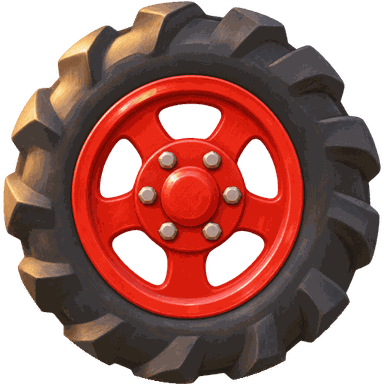
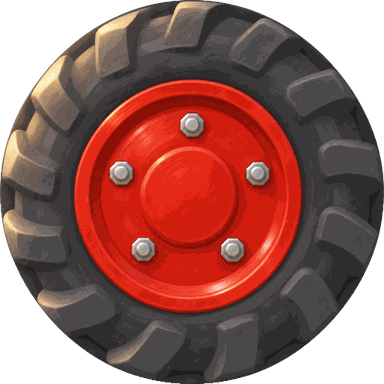
2.0 K shapes look: more pictures from the picture account - painted round mats for 10 worlds; 5 painted friends (each game's friend is a matching boy, with a happy hop); toy bricks, sails and puzzle wood; garden planter, stone and flag cloth; kite cloth; beach mould; party tiles and foil; jungle car
Claude-Session: https://claude.ai/code/session_01T5wrckVZWpBXtuZk8naXea

diff --git a/v2/app/k-shapes/treasures.js b/v2/app/k-shapes/treasures.js
@@ -313,7 +313,8 @@ export function createTreasures({ world, PM: PM0, paint, FAST, ANISO, vivid = c 
     const col = keepHue(vivid(color)), t = paint(512, 128, (x, w, h) => { x.fillStyle = col; x.fillRect(0, 0, w, h);
       x.fillStyle = 'rgba(255,255,255,.92)'; [0.1, 0.18, 0.82, 0.9].forEach(u => x.fillRect(u * w, 0, w * 0.035, h));   /* white stripes near the ends */
       x.strokeStyle = 'rgba(0,0,0,.14)'; x.lineWidth = 2; for (let px = 0; px < w; px += 8) for (let py = 4; py < h; py += 12) { x.beginPath(); x.moveTo(px, py); x.lineTo(px + 4, py + 6); x.lineTo(px + 8, py); x.stroke(); } });   /* knit stitches */
-    const g = new THREE.Group(), body = new THREE.Mesh(new RoundedBoxGeometryLite(L - 0.24, 0.16, 0.5, 0.06), new PM({ color: '#FFFFFF', map: t, roughness: 0.95, sheen: 1, sheenColor: C(tint(col, 0.5)), emissive: '#FFC400', emissiveIntensity: 0 }));
+    const knit = HAVE.has('winter-knit-surface.jpg') ? (() => { const k = artTex('winter-knit-surface.jpg').clone(); k.needsUpdate = true; k.wrapS = k.wrapT = THREE.RepeatWrapping; k.repeat.set((L - 0.24) / 0.7, 0.7); return k; })() : null;   /* the painted knit, tinted */
+    const g = new THREE.Group(), body = new THREE.Mesh(new RoundedBoxGeometryLite(L - 0.24, 0.16, 0.5, 0.06), new PM({ color: knit ? col : '#FFFFFF', map: knit || t, roughness: 0.95, sheen: 1, sheenColor: C(tint(col, 0.5)), emissive: '#FFC400', emissiveIntensity: 0 }));
     body.castShadow = true; g.add(body);
     const fm = new PM({ color: col, roughness: 0.9, sheen: 1 }), fg = new THREE.CylinderGeometry(0.018, 0.018, 0.12, 5); fg.rotateZ(Math.PI / 2);
     [-1, 1].forEach(sd => { for (let k = 0; k < 7; k++) { const f = new THREE.Mesh(fg, fm); f.position.set(sd * (L / 2 - 0.06), 0, -0.21 + k * 0.07); g.add(f); } });
@@ -510,7 +511,9 @@ export function createTreasures({ world, PM: PM0, paint, FAST, ANISO, vivid = c 
   /* the pictures that have arrived and been checked by eye (k-shapes-art-requests.md); only these are loaded */
   const HAVE = new Set(['beach-ball-round.png', 'beach-sail-surface.jpg', 'beach-sand-surface.jpg', 'farm-barnroof-surface.jpg', 'farm-hay-surface.jpg', 'farm-honeycomb-surface.jpg',
     'farm-tire-round.png', 'garden-sunflower-round.png', 'party-bunting-surface.jpg', 'party-cake-round.png', 'party-gift-surface.jpg', 'sky-basket-surface.jpg', 'sky-cloudtile-surface.jpg',
-    'sky-goldstar-surface.jpg', 'space-fin-surface.jpg', 'space-panel-surface.jpg', 'space-planet-round.png', 'space-solar-surface.jpg', 'toy-drum-round.png']);
+    'sky-goldstar-surface.jpg', 'space-fin-surface.jpg', 'space-panel-surface.jpg', 'space-planet-round.png', 'space-solar-surface.jpg', 'toy-drum-round.png',
+    'garden-planter-surface.jpg', 'garden-stone-surface.jpg', 'garden-flag-surface.jpg', 'toy-brick-surface.jpg', 'toy-sail-surface.jpg', 'toy-puzzle-surface.jpg', 'sky-kitecloth-surface.jpg',
+    'beach-mould-surface.jpg', 'party-tile-surface.jpg', 'party-foil-surface.jpg', 'jungle-carved-surface.jpg', 'jungle-leaf-surface.jpg', 'winter-knit-surface.jpg']);
   T.artList = () => [...HAVE];
   const loader = new THREE.TextureLoader(), texCache = {};
   function artTex(pic) { return texCache[pic] || (texCache[pic] = (() => { const t = loader.load('art/' + pic); t.colorSpace = THREE.SRGBColorSpace; t.anisotropy = ANISO; t.wrapS = t.wrapT = THREE.RepeatWrapping; return t; })()); }

diff --git a/v2/app/k-shapes/look.js b/v2/app/k-shapes/look.js
@@ -33,7 +33,7 @@ function rng(seed) { let a = seed >>> 0; return () => { a = (a + 0x6D2B79F5) >>>
 
 /* bright toy colours: the old palette, made sunnier */
 export const TOY = ['#FF3B30', '#2F80FF', '#FFC21A', '#1DC77A', '#9A5BFF', '#FF8A1F', '#00C3D6', '#FF4FA0'];
-const OLD2TOY = { '#E03A33': '#FF3B30', '#1F6FEB': '#2F80FF', '#F2A900': '#FFC21A', '#12A766': '#1DC77A', '#7C4DFF': '#9A5BFF', '#FF7A1A': '#FF8A1F', '#00A3B8': '#00C3D6', '#F0458E': '#FF4FA0' };
+const OLD2TOY = { '#FFC21A': '#FFD21F', '#E03A33': '#FF3B30', '#1F6FEB': '#2F80FF', '#F2A900': '#FFD21F', '#12A766': '#1DC77A', '#7C4DFF': '#9A5BFF', '#FF7A1A': '#FF8A1F', '#00A3B8': '#00C3D6', '#F0458E': '#FF4FA0' };
 export function vivid(c) {
   const k = String(c).toUpperCase(); if (OLD2TOY[k]) return OLD2TOY[k];
   const col = new THREE.Color(c), hsl = {}; col.getHSL(hsl);
@@ -165,7 +165,7 @@ export function createLook({ renderer, scene, camera, FAST, world }) {
   }
   /* the stage: the round mat in the middle where the shapes sit (its top is at 0.1, like the rug) */
   /* painted round mats that have arrived and been checked by eye (art/mat-<world>.png; k-shapes-art-requests.md) */
-  const MATS = new Set([]);
+  const MATS = new Set(['toyland', 'garden', 'sky', 'bakery', 'space', 'underwater', 'traintown', 'jungle', 'snow', 'party']);
   function stage(draw, o = {}) {
     const t = paint(1024, 1024, (x, w) => draw(x, w / 2, w));
     const top = new PM({ color: '#FFFFFF', map: t, roughness: o.rough || 0.9, sheen: o.sheen == null ? 0.8 : o.sheen, sheenColor: new THREE.Color(o.sheenColor || '#FFF6E8'), sheenRoughness: 0.7, clearcoat: o.coat || 0, clearcoatRoughness: 0.3 });
@@ -1152,7 +1152,7 @@ export function createLook({ renderer, scene, camera, FAST, world }) {
   function poseTex(who, pose) { const k = who + '-' + pose; if (!paintedTex[k]) { paintedTex[k] = new Promise(res => texLoader.load('art/' + k + '.png', t => { t.colorSpace = THREE.SRGBColorSpace; t.anisotropy = ANISO; res(t); }, undefined, () => res(null))); } return paintedTex[k]; }
   /* which painted boy plays each game's friend: glasses -> Dovid, ginger hair -> Shloimy, Shmuel -> Shmuel, the others shared out by name.
      Only boys whose pictures have arrived and been checked are used. */
-  const FRIENDS = ['shmuel'];
+  const FRIENDS = ['shmuel', 'dovid', 'shloimy', 'ari', 'avi', 'yossi'];
   L.friendArt = (F) => {
     const has = n => FRIENDS.includes(n);
     if (F.glasses && has('dovid')) return 'dovid';

diff --git a/v2/tests/k-shapes-look.js b/v2/tests/k-shapes-look.js
@@ -20,7 +20,9 @@ module.exports = async function (browser) {
   /* the painted pictures (art/, from the picture account): every one the code names is there and small enough for a school Chromebook */
   const code = ['treasures.js', 'look.js', 'kit.js'].map(f => fs.readFileSync(path.join(APP, f), 'utf8')).join('\n');
   const have = (code.match(/const HAVE = new Set\(\[([^\]]*)\]\)/) || [, ''])[1].match(/[a-z0-9-]+\.(?:png|jpg)/g) || [];
-  for (const f of [...have, ...['mendy', 'shmuel'].flatMap(w => ['idle', 'talk'].map(p => w + '-' + p + '.png')), ...['red', 'blue', 'yellow', 'green'].map(c => 'cupcake-' + c + '.png')]) {
+  const mats = ((code.match(/const MATS = new Set\(\[([^\]]*)\]\)/) || [, ''])[1].match(/[a-z]+/g) || []).map(w => 'mat-' + w + '.png');
+  const friends = ((code.match(/const FRIENDS = \[([^\]]*)\]/) || [, ''])[1].match(/[a-z]+/g) || []).flatMap(w => ['idle', 'talk'].map(p => w + '-' + p + '.png'));
+  for (const f of [...mats, ...friends, ...have, ...['mendy', 'shmuel'].flatMap(w => ['idle', 'talk'].map(p => w + '-' + p + '.png')), ...['red', 'blue', 'yellow', 'green'].map(c => 'cupcake-' + c + '.png')]) {
     const fp = path.join(APP, 'art', f);
     if (!fs.existsSync(fp)) bad('art/' + f + ' is missing');
     else if (fs.statSync(fp).size > 160 * 1024) bad('art/' + f + ' is too big for a school Chromebook (' + Math.round(fs.statSync(fp).size / 1024) + ' KB; keep each under 160 KB)');

diff --git a/v2/curriculum/k-shapes-art-requests.md b/v2/curriculum/k-shapes-art-requests.md
@@ -15,3 +15,9 @@ The game cuts every picture to the exact shape (the outline in `kit.js`), so a t
 - A **surface** (hay, barn boards, honeycomb ...) is cut to the shape. Shapes that look alike share the same object (square and rectangle are both hay bales on the farm), so a boy must judge the shape, not the object.
 - Esti, 2026-11-26 (during the build): "dont just add one tire think creatively ... if you have a farm page the shapes should be farm themed".
 | K4 | 2026-11-26 ~04:15 UTC | Pictures needed: round play mats for 12 worlds + 5 more boys - order K4 | 12 round mats (one per world); friends Dovid, Shloimy, Ari, Avi, Yossi (idle, talk, happy); Shmuel happy | Waiting |
+
+## Round 2 answers (05:31 UTC check)
+53 more pictures arrived on K2, K3 and K4 and were checked by eye (a helper went through each against its order; I looked at a contact sheet of all of them).
+- **In the game:** the 3 corrections (tire with a smooth round edge, garden planter slats, garden stone); toy bricks, toy sail, toy puzzle, garden flag, sky kite cloth, beach mould, party tile, party foil, jungle carved wood, jungle leaf, winter knit (the scarves); 10 round mats (toy land, garden, sky, bakery, space, underwater, train town, jungle, winter, party); 5 friends (Dovid, Shloimy, Ari, Avi, Yossi: idle, talk, happy) and Shmuel's happy hop. Friends are trimmed to one shared frame per boy so all the boys show at the same size.
+- **Sent back (05:45 UTC, on the K4 thread):** mat-beach and mat-farm (busy middle; stripes and gingham only as a border please), mat-party (circle short of the bottom edge; the current one is in the game meanwhile), Avi (clearly olive skin, a face less like Ari's; the current one is in the game meanwhile), sky-kite-round (wavy edge, does not touch the edges), farm-stone (smudgy, photo-like).
+- **Received, not used yet** (kept aside, not in the repository): winter ice and snowball, sea pearl, chest, shell and glass, train wheel, car and sign. No current game shows those flat shapes; the solids under the sea and the train cars are made in code.
